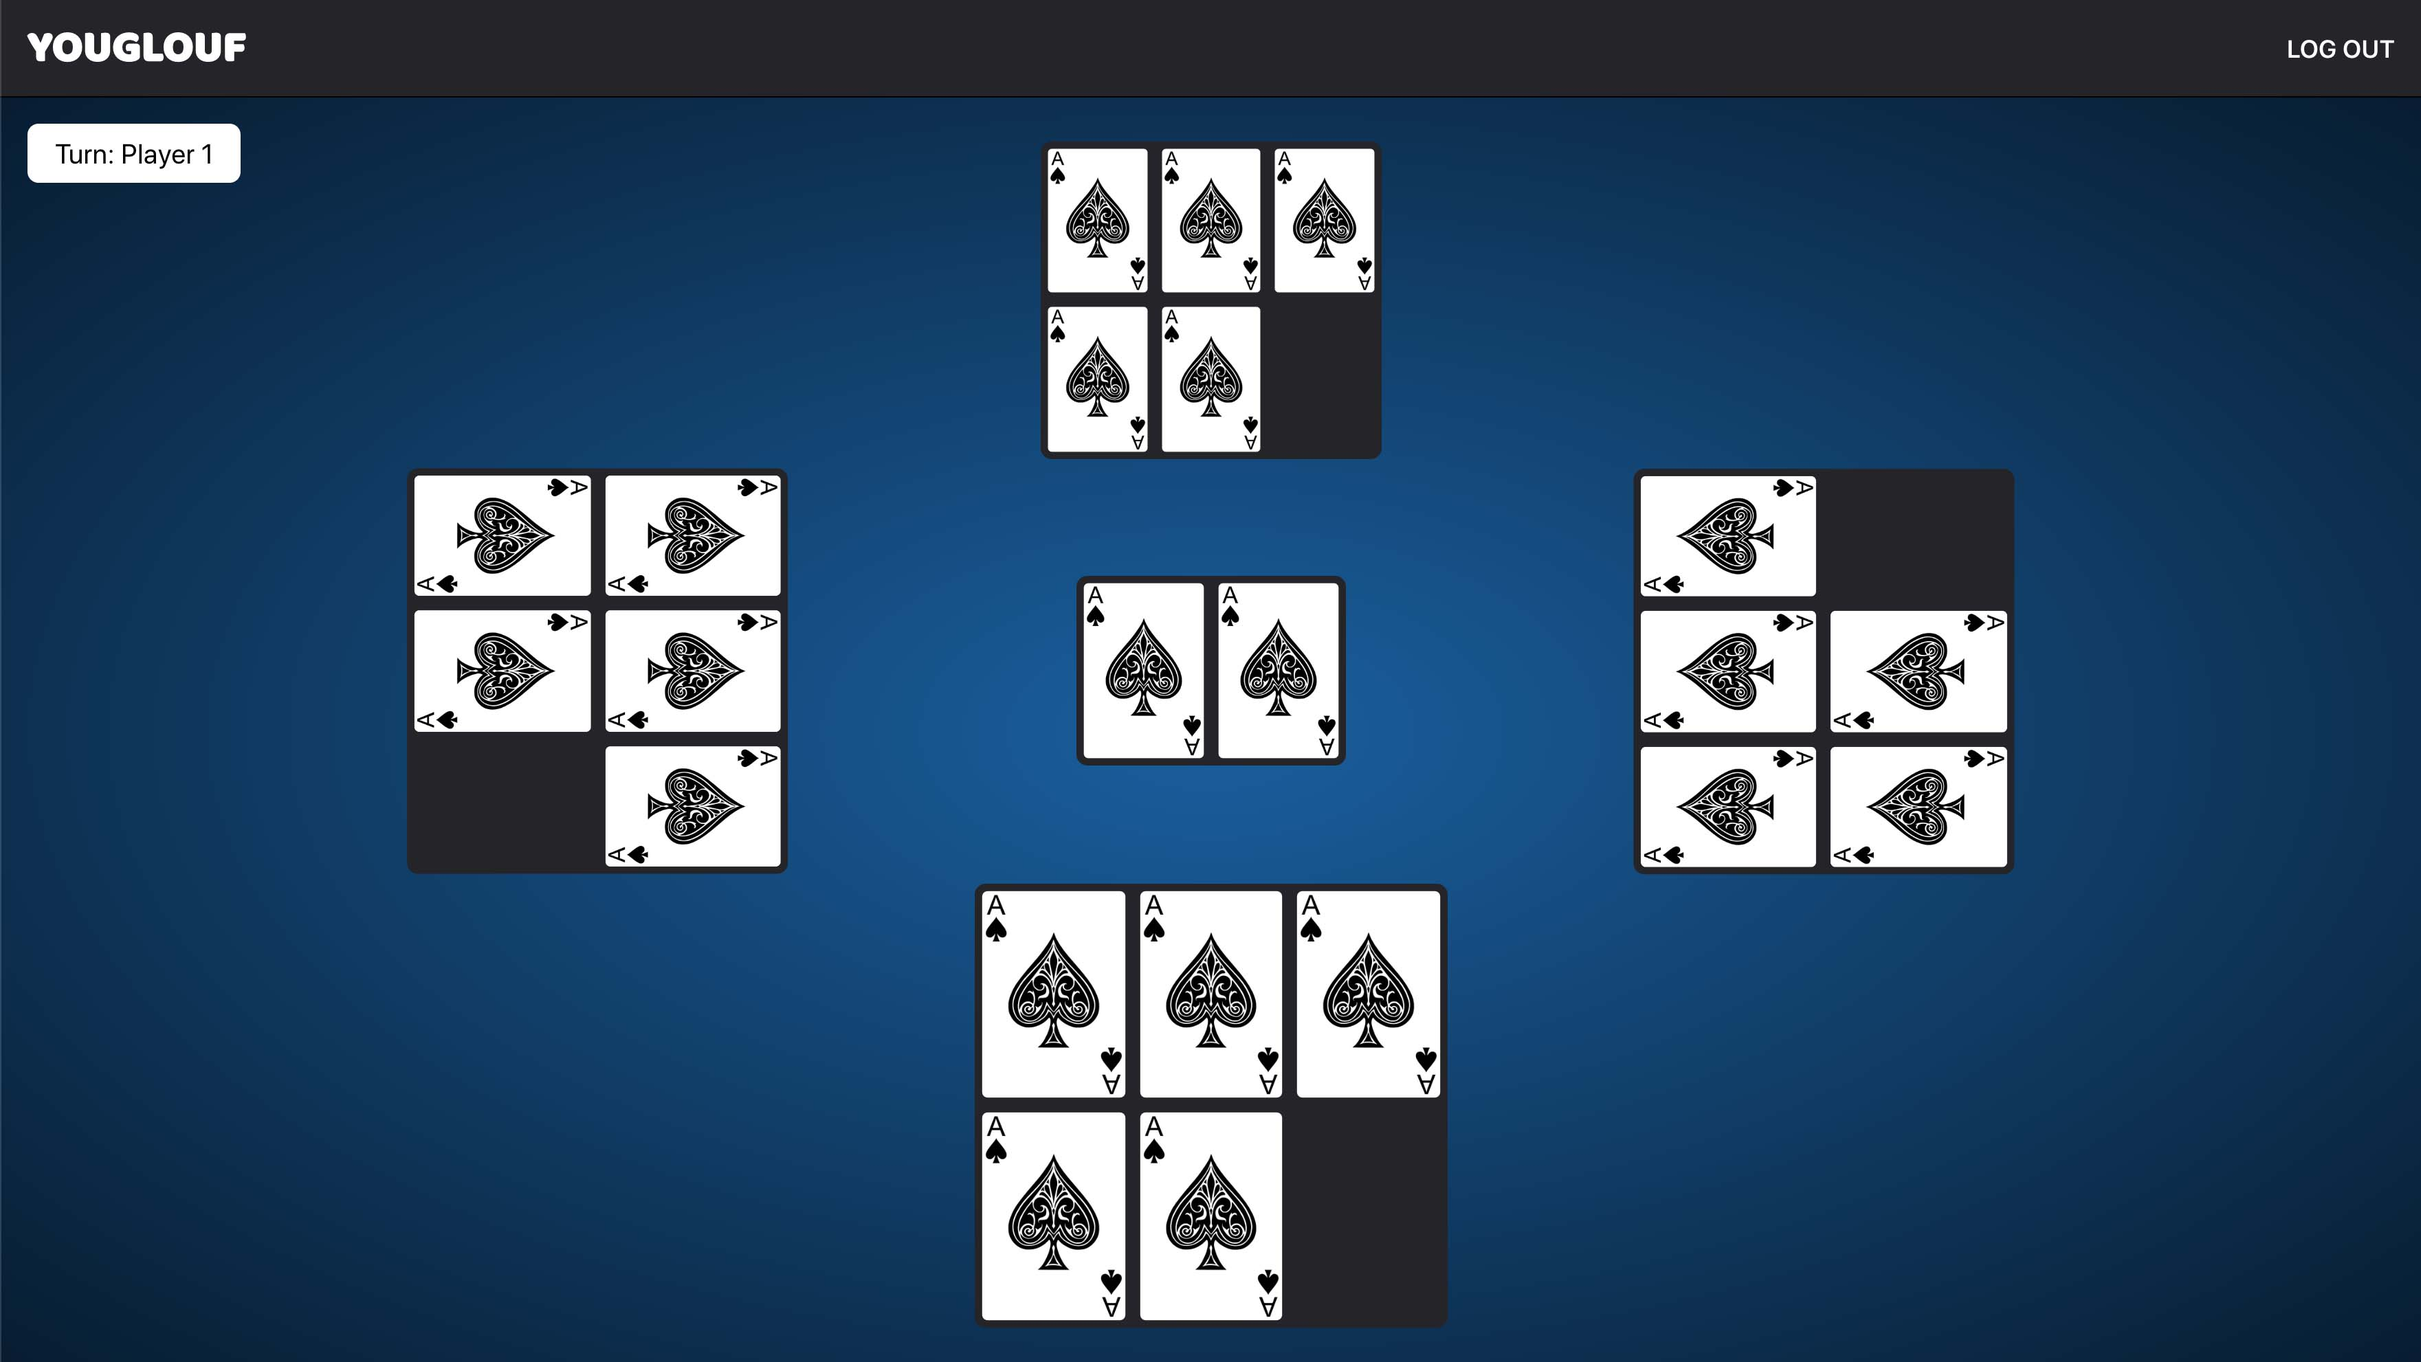
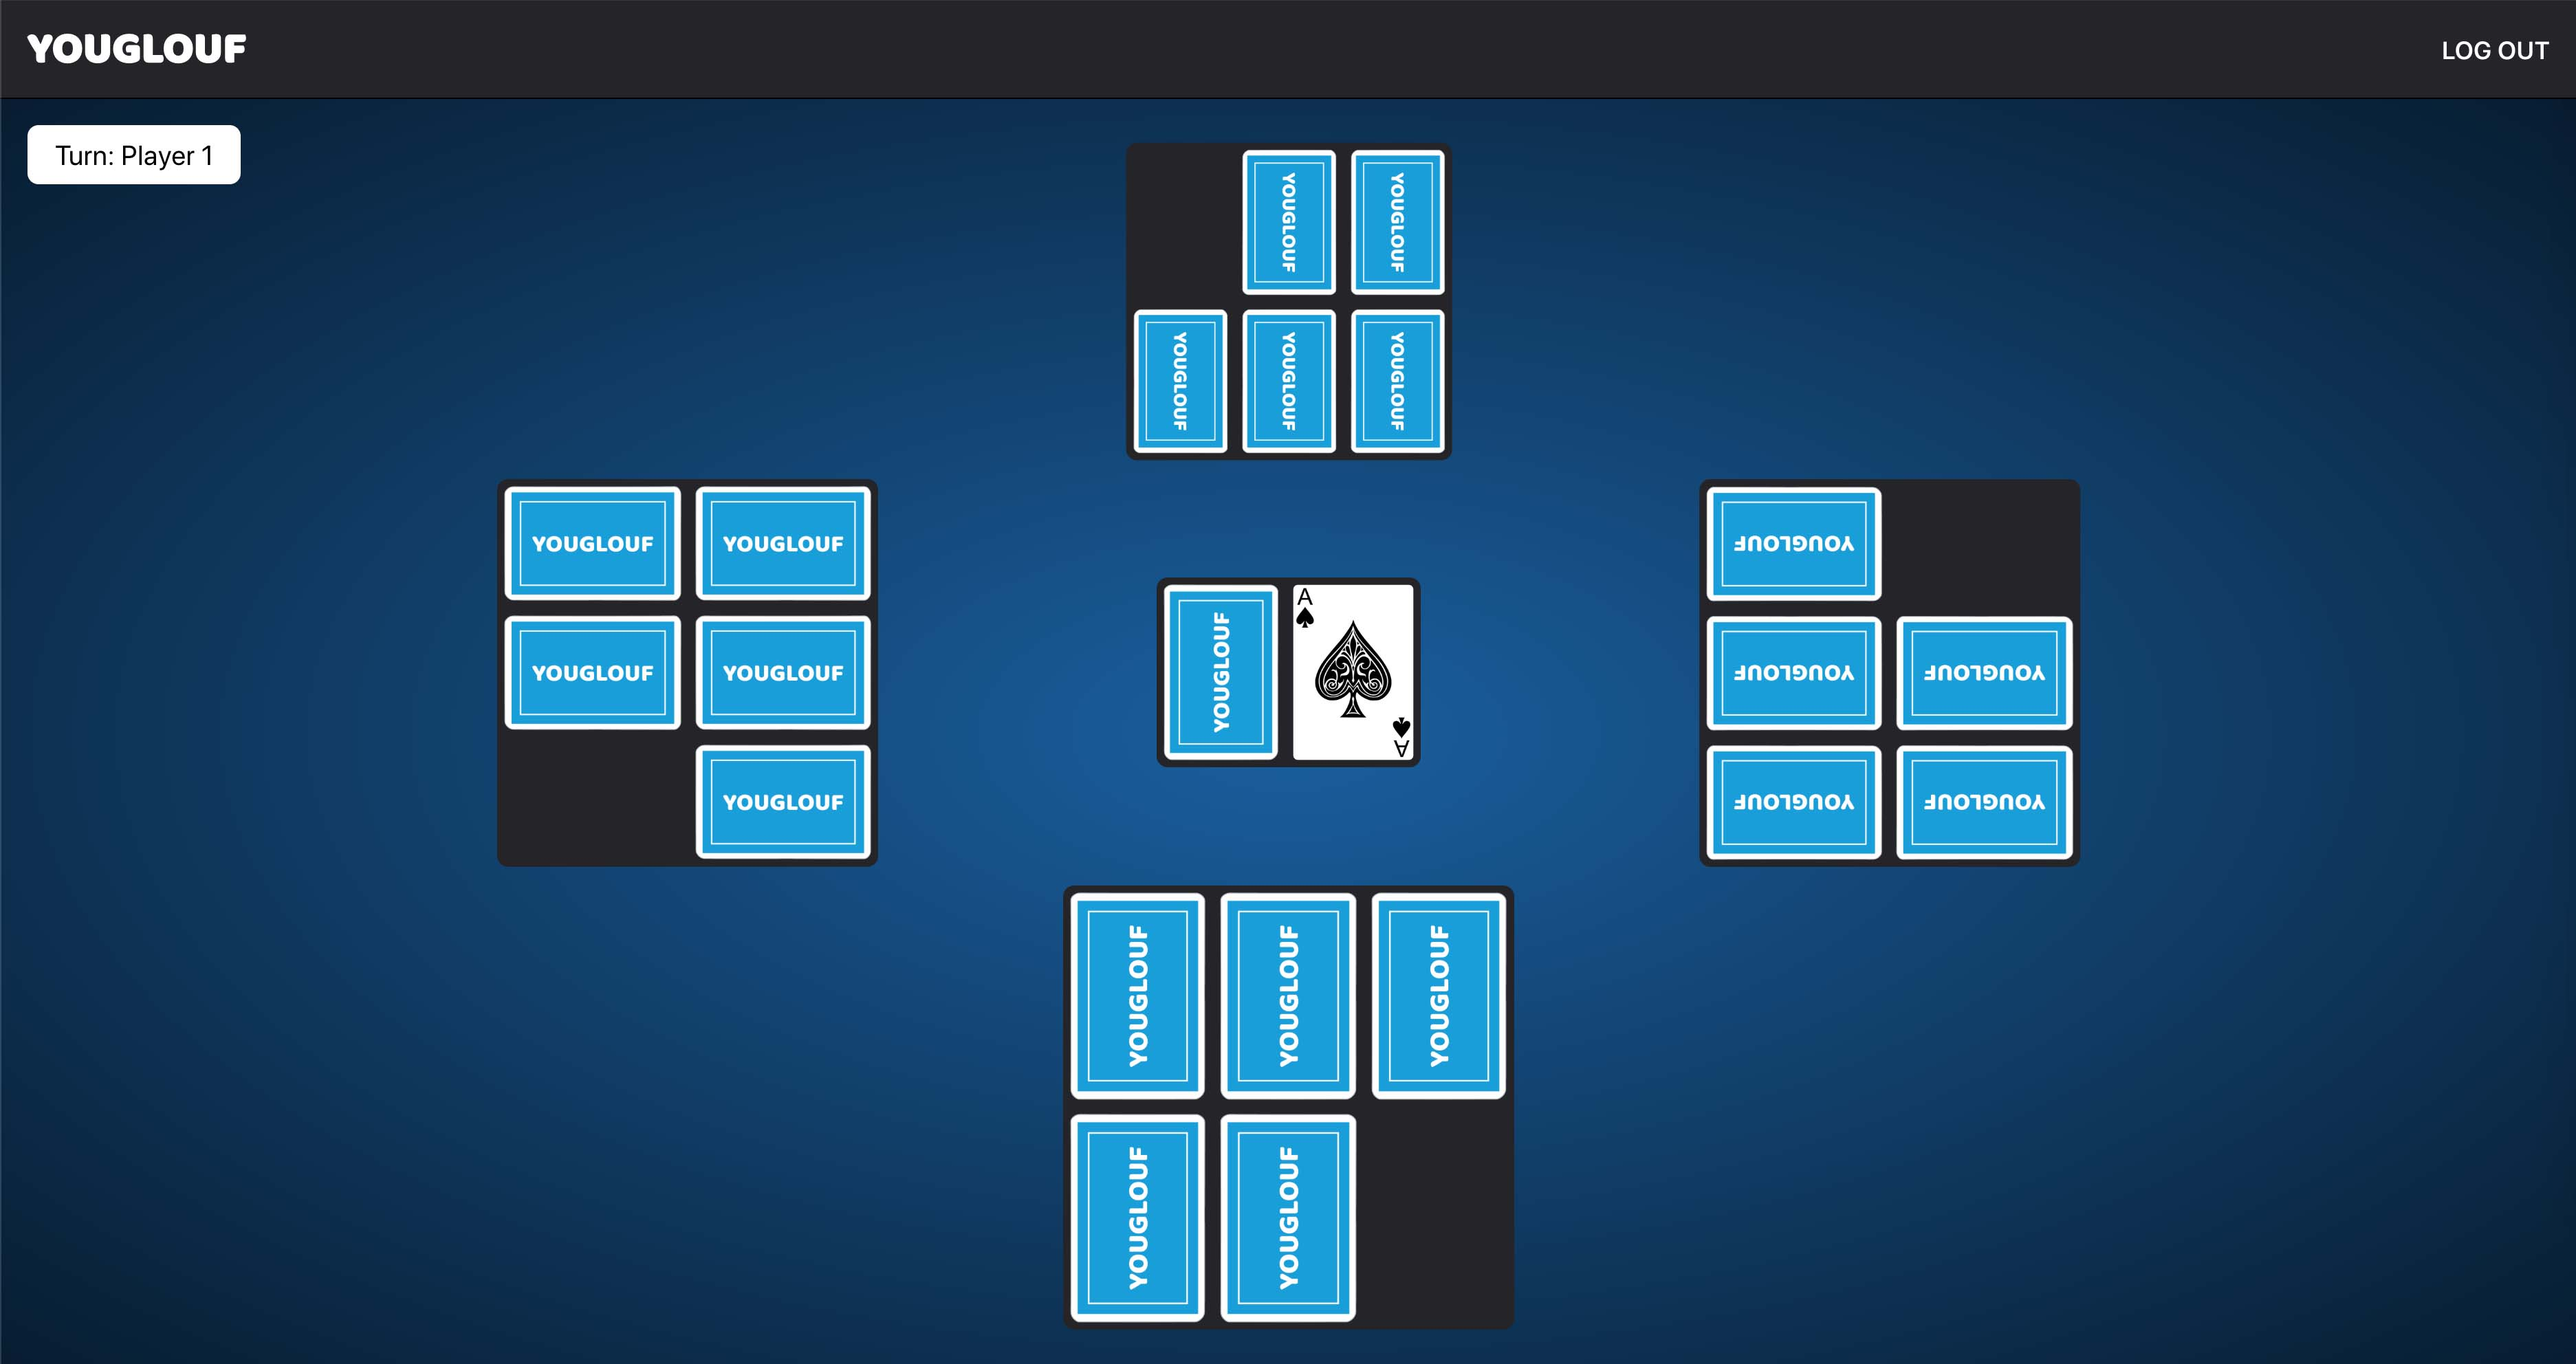
README

diff --git a/frontend/src/App/components/deck/CommonDeck.js b/frontend/src/App/components/deck/CommonDeck.js
@@ -1,7 +1,8 @@
 import React, { Component } from 'react'
 import SocketContext from '../../utils/SocketContext'
 
-import card from '../../assets/cards/ace_of_spades.png'
+import card from '../../assets/cards/back.png'
+import card2 from '../../assets/cards/ace_of_spades.png'
 
 import './Deck.scss'
 
@@ -20,17 +21,12 @@ class CommonDeck extends Component {
   }
 
   render() {
-    const { rotate } = this.props
-    let className = ""
-    className += rotate === 1 ? " left-deck" : ""
-    className += rotate === -1 ? " right-deck" : ""
-
     return (
-      <div className={"deck common" + className}>
+      <div className={"deck common"}>
         <div className="cards">
           <div className="cards-row common">
             <img src={card} alt="" onClick={this.handleClick} />
-            <img src={card} alt="" onClick={this.handleClick} />
+            <img src={card2} alt="" onClick={this.handleClick} />
           </div>
         </div>
       </div>

diff --git a/frontend/src/App/components/deck/Deck.js b/frontend/src/App/components/deck/Deck.js
@@ -1,7 +1,7 @@
 import React, { Component } from 'react'
 import SocketContext from '../../utils/SocketContext'
 
-import card from '../../assets/cards/ace_of_spades.png'
+import card from '../../assets/cards/back.png'
 
 import './Deck.scss'
 
@@ -18,8 +18,9 @@ class Deck extends Component {
   render() {
     const { rotate } = this.props
     let className = ""
-    className += rotate === 1 ? " left-deck" : ""
-    className += rotate === -1 ? " right-deck" : ""
+    className += rotate === 1 ? " top-deck" : ""
+    className += rotate === 2 ? " left-deck" : ""
+    className += rotate === 3 ? " right-deck" : ""
 
     return (
       <div className={"deck" + className}>

diff --git a/frontend/src/App/components/pages/BoardPage.js b/frontend/src/App/components/pages/BoardPage.js
@@ -22,12 +22,12 @@ class BoardPage extends Component {
           Turn: Player 1
         </div>
         <div className="container-row top-row">
-          <Deck />
+          <Deck rotate={1} />
         </div>
         <div className="container-row middle-row">
-          <Deck rotate={1} />
+          <Deck rotate={2} />
           <CommonDeck />
-          <Deck rotate={-1} />
+          <Deck rotate={3} />
         </div>
         <div className="container-row bottom-row">
           <Deck />

diff --git a/frontend/src/App/components/deck/Deck.scss b/frontend/src/App/components/deck/Deck.scss
@@ -9,6 +9,10 @@
     height: 50%;
   }
 
+  &.top-deck {
+    transform: rotate(180deg);
+  }
+
   &.left-deck {
     transform: rotate(90deg);
     margin-right: 200px;

diff --git a/README.md b/README.md
@@ -90,19 +90,15 @@ For each table of our MySQL database, we have a custom Slick DAO that provides a
 
 #### Routes
 POST /users/login
-
 user authentication with JSON payload of type: {"username": JohnDoe, "password": 1234}
 
 POST /users/signup
-
 user registration with JSON payload of type: {"username": JohnDoe, "password": 1234}
 
 GET /user/statistics
-
 query user statistics on games history, user is identified with the JWT provided in the header
 
 GET /ws
-
 establish the connection between the client and the server using WebSockets, the JWT is provided through the query string (URL parameters)
 
 #### Security
